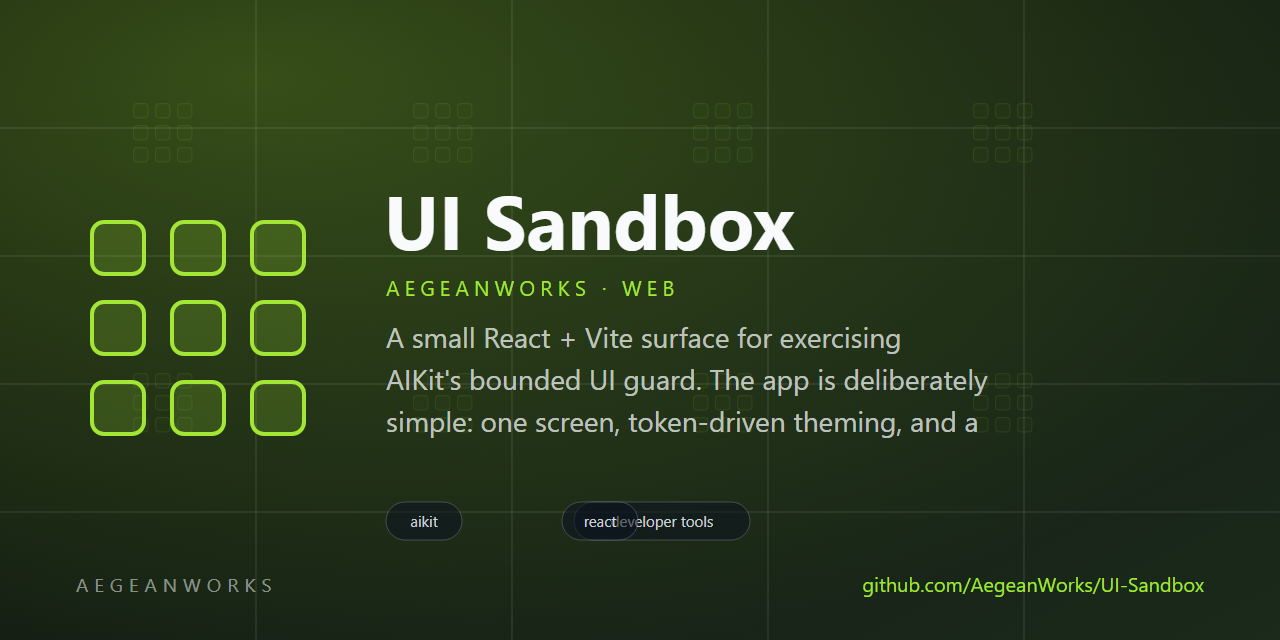
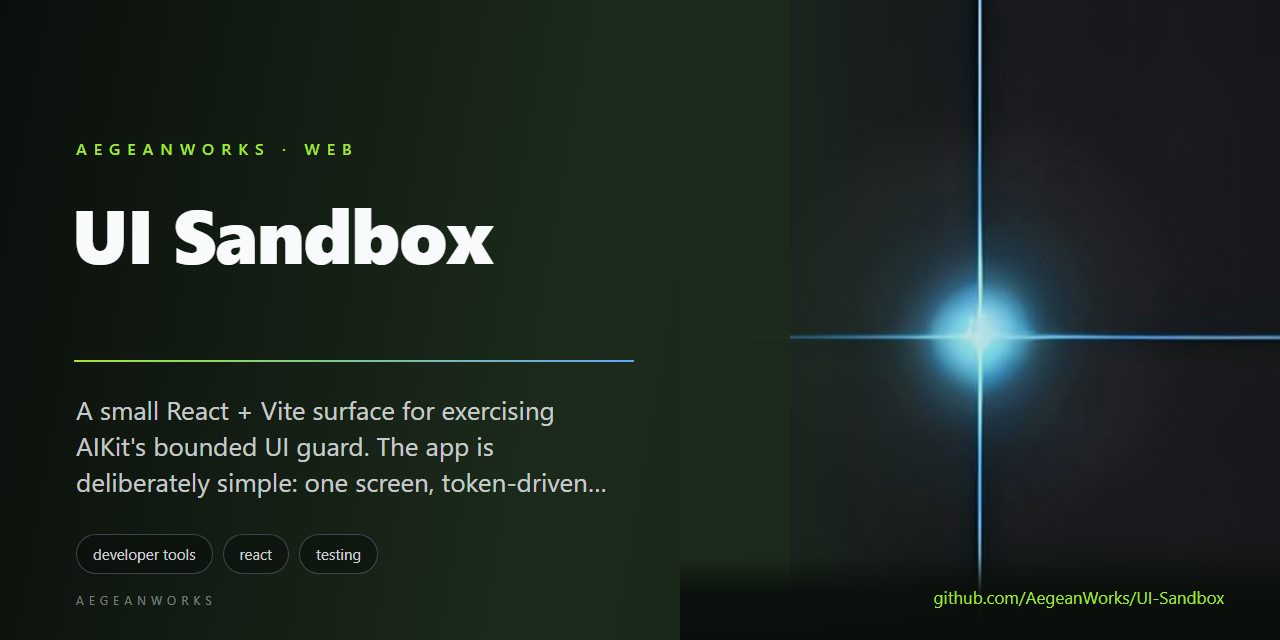
feat(brand): replace procedural marks with reviewed AI-art identities

diff --git a/README.md b/README.md
@@ -1,8 +1,8 @@
 # UI Sandbox
 
 <!-- aegean:media:start -->
-<p align="center"><img src="assets/logo.svg" alt="UI-Sandbox logo" width="96" height="96"></p>
-<p align="center"><img src="assets/social-preview.svg" alt="UI-Sandbox social preview" width="100%"></p>
+<p align="center"><img src="assets/logo.png" alt="UI-Sandbox logo" width="96" height="96"></p>
+<p align="center"><img src="assets/social-preview.png" alt="UI-Sandbox social preview" width="100%"></p>
 <!-- aegean:media:end -->
 
 [![Built with AIKit](https://img.shields.io/badge/built%20with-AIKit-6f42c1)](https://github.com/AegeanWorks/AIKit)
